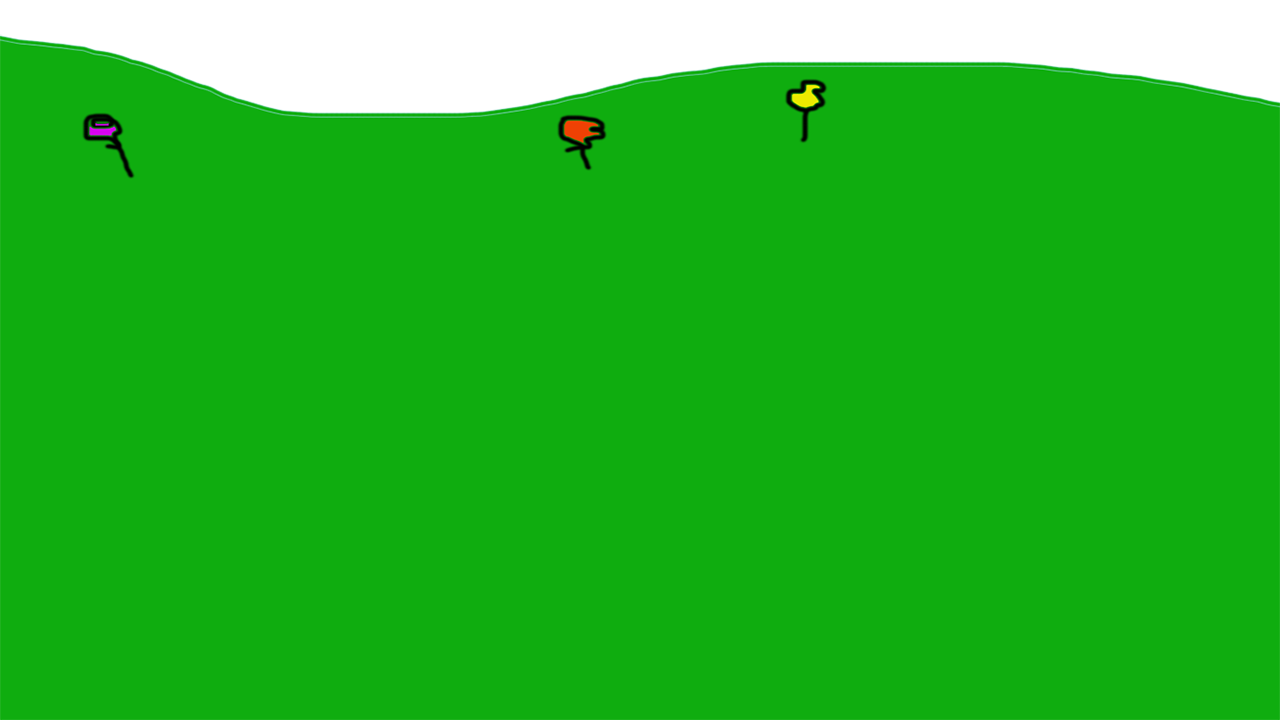
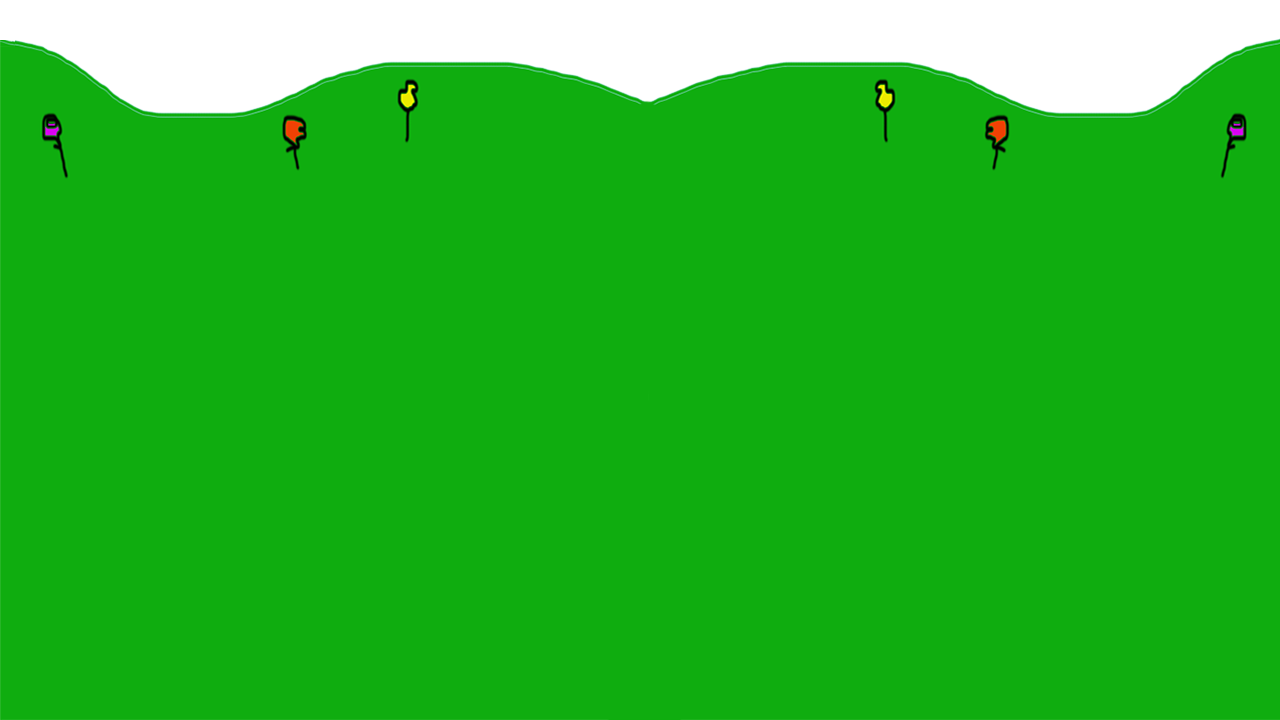
Add files via upload

Changed region(s): [[0.0, 0.0306, 0.5938, 0.2444], [0.5938, 0.0611, 1.0, 0.2139], [0.0938, 0.2139, 0.125, 0.2444]]

diff --git a/PROYECTO JUEGO ANDROID/ByeBee/core/src/com/mygdx/byebee/screens/Level1.java b/PROYECTO JUEGO ANDROID/ByeBee/core/src/com/mygdx/byebee/screens/Level1.java
@@ -6,6 +6,7 @@ import com.badlogic.gdx.graphics.OrthographicCamera;
 import com.badlogic.gdx.graphics.Texture;
 import com.badlogic.gdx.graphics.g2d.SpriteBatch;
 import com.badlogic.gdx.math.Vector2;
+import com.badlogic.gdx.scenes.scene2d.ui.TextButton;
 import com.badlogic.gdx.utils.viewport.StretchViewport;
 import com.badlogic.gdx.utils.viewport.Viewport;
 import com.mygdx.byebee.characters.Bee;
@@ -23,11 +24,13 @@ public class Level1 implements Screen {
 
     private Texture[] backgrounds;
 
-    // Timing thingies
+    // Timing cosas
     private float[] bgOffsets = {0, 0, 0, 0}; // Para el efecto parallax
     private float bgMaxScrollSpeed; // Para el movimiento del escenario
-    private float timeBetweenEnemySpawns = 5f;
-    private float enemySpawnTimer = 0;
+    private float timeBetweenSpawnsBird = 7f;
+    private float timeBetweenSpawnsBeeLancer = 3f;
+    private float birdSpawnTimer = 0;
+    private float beeLancerSpawnTimer = 0;
 
     // Icono de salud
     private Health health;
@@ -41,6 +44,7 @@ public class Level1 implements Screen {
     private Enemy beeLancer;
 
     public Level1() {
+
         camera = new OrthographicCamera();
         viewport = new StretchViewport(ByeBee.WIDTH, ByeBee.HEIGHT, camera);
 
@@ -124,33 +128,27 @@ public class Level1 implements Screen {
                 bee.setSpeed(new Vector2(0, 50)); // Esto es solo de prueba. La abeja perdería 1/7 de vida aquí
                 bee.setHealth(bee.getHealth() - 1);
                 //enemyListIterator.remove(); // (DE PRUEBA) borra el enemigo chocado
-
-                if (enemySpawnTimer > timeBetweenEnemySpawns) {
-
-                }
                 break;
             }
         }
     }
 
     private void spawnEnemies(float deltaTime) { // Hace que los enemigos vayan apareciendo de forma aleatoria
-        enemySpawnTimer += deltaTime;
-        System.out.println("000000000 " + enemySpawnTimer + " " + timeBetweenEnemySpawns);
+        birdSpawnTimer += deltaTime;
+        beeLancerSpawnTimer += deltaTime;
 
-        if (enemySpawnTimer > timeBetweenEnemySpawns) {
+        if (birdSpawnTimer > timeBetweenSpawnsBird) {
             enemyList.add(new Enemy(ByeBee.WIDTH, (float) (Math.random() * ByeBee.HEIGHT + 1), // PÁJARO
                     250, 200, new Texture("bird.png"), 10));
 
-            enemySpawnTimer -= timeBetweenEnemySpawns;
-            System.out.println("222222222222");
+            birdSpawnTimer -= timeBetweenSpawnsBird;
         }
 
-        if (enemySpawnTimer > timeBetweenEnemySpawns) {
+        if (beeLancerSpawnTimer > timeBetweenSpawnsBeeLancer) {
             enemyList.add(new Enemy(ByeBee.WIDTH, (float) (Math.random() * ByeBee.HEIGHT + 1), // ABEJA LANCERA
                     250, 200, new Texture("bee_lancer.png"), 5));
 
-            enemySpawnTimer -= timeBetweenEnemySpawns;
-            System.out.println("222222222222");
+            beeLancerSpawnTimer -= timeBetweenSpawnsBeeLancer;
         }
     }
 

diff --git a/PROYECTO JUEGO ANDROID/ByeBee/core/src/com/mygdx/byebee/screens/ByeBee.java b/PROYECTO JUEGO ANDROID/ByeBee/core/src/com/mygdx/byebee/screens/ByeBee.java
@@ -8,19 +8,31 @@ import com.mygdx.byebee.screens.TitleScreen;
 import java.util.Random;
 
 public class ByeBee extends Game {
+	// Valores para usar durante el juego
 	public static final int WIDTH = 1280;
 	public static final int HEIGHT = 720;
 	public static final String TITLE = "ByeBee";
 	public static Random random = new Random();
 
+	// Instaciación de las diferentes pantallas del juego
 	private TitleScreen titleScreen;
-	private Level1 level1; // Solo para probar, luego lo borro porque aquí deberia llamar a la title screen
+	private Level1 level1;
+
+	// Métodos para llamar a las diferentes pantallas
+
+	public void setTitleScreen() {
+		titleScreen = new TitleScreen(this);
+		setScreen(titleScreen);
+	}
+
+	public void setLevel1() {
+		level1 = new Level1();
+		setScreen(level1);
+	}
 
 	@Override
 	public void create () {
-		//titleScreen = new TitleScreen();
-		level1 = new Level1();
-		setScreen(level1);
+		setTitleScreen();
 	}
 
 	@Override
@@ -30,12 +42,12 @@ public class ByeBee extends Game {
 
 	@Override
 	public void resize(int width, int height) {
-		level1.resize(width, height);
+		titleScreen.resize(width, height);
 	}
 
 	@Override
 	public void dispose () {
-		level1.dispose();
+		titleScreen.dispose();
 	}
 
 

diff --git a/PROYECTO JUEGO ANDROID/ByeBee/core/src/com/mygdx/byebee/screens/TitleScreen.java b/PROYECTO JUEGO ANDROID/ByeBee/core/src/com/mygdx/byebee/screens/TitleScreen.java
@@ -14,8 +14,10 @@ public class TitleScreen implements Screen {
     private Viewport viewport;
     private SpriteBatch spriteBatch;
     private Texture bgTitle;
+    private ByeBee byebee;
 
-    public TitleScreen() {
+    public TitleScreen(ByeBee byebee) {
+        this.byebee = byebee;
         camera = new OrthographicCamera();
         viewport = new StretchViewport(ByeBee.WIDTH, ByeBee.HEIGHT, camera);
 
@@ -31,6 +33,10 @@ public class TitleScreen implements Screen {
 
     @Override
     public void render(float delta) {
+        if (Gdx.input.justTouched()) {
+            byebee.setLevel1();
+        }
+
         spriteBatch.begin();
         spriteBatch.draw(bgTitle, 0, 0, ByeBee.WIDTH, ByeBee.HEIGHT);
         spriteBatch.end();

diff --git a/PROYECTO JUEGO ANDROID/ByeBee/android/src/com/mygdx/byebee/AndroidLauncher.java b/PROYECTO JUEGO ANDROID/ByeBee/android/src/com/mygdx/byebee/AndroidLauncher.java
@@ -4,6 +4,7 @@ import android.os.Bundle;
 
 import com.badlogic.gdx.backends.android.AndroidApplication;
 import com.badlogic.gdx.backends.android.AndroidApplicationConfiguration;
+import com.mygdx.byebee.screens.ByeBee;
 
 public class AndroidLauncher extends AndroidApplication {
 	@Override
